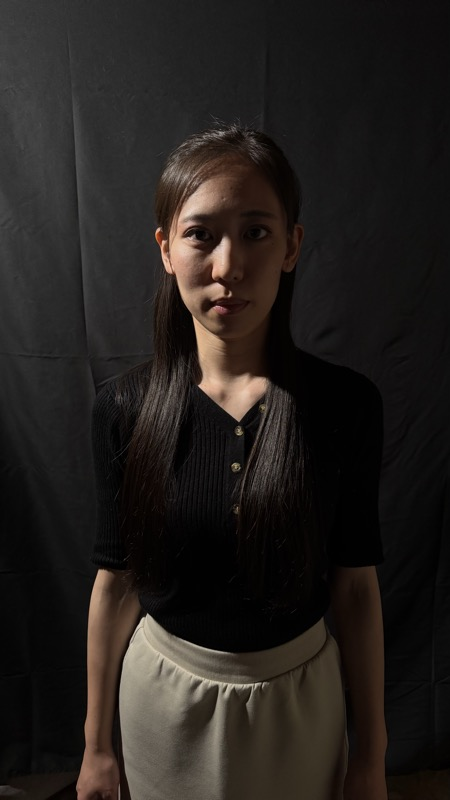
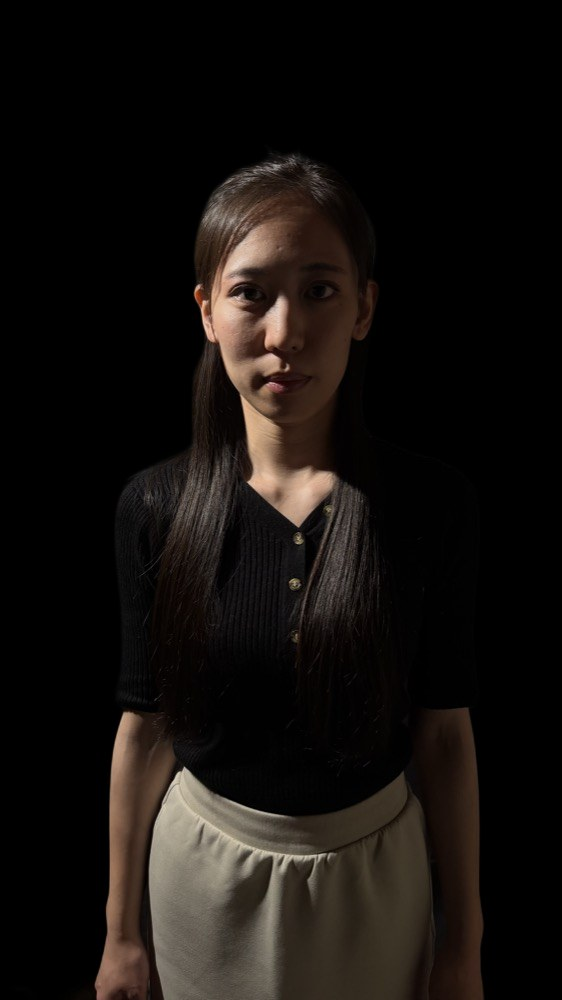
itabashi-v3: 強み下バナーを切り抜き黒バック4名に・社長(0187)を40%幅で目立たせ

diff --git a/itabashi-v3.html b/itabashi-v3.html
@@ -109,7 +109,7 @@
   </div>
   <div class="reel-audio"><span class="reel-note">&#9834;</span><span class="reel-track">オリジナル音源 &middot; 第弐ヴォヌール</span></div>
   <div class="reel-bar"><span></span></div>
-</div></div><div class="mt-10 grid grid-cols-1 md:grid-cols-2 gap-4 max-w-2xl mx-auto"><div class="bg-white/70 backdrop-blur-sm rounded-2xl p-5 border border-[#E8B84B]/30 flex flex-col items-center text-center gap-3 shadow-sm"><div><p class="text-xs font-bold text-[#2A2520] mb-1">SNS運用・クラウドファンディングを<br>相談したい事業者様</p><p class="text-xs text-[#5A5550] leading-relaxed">まずはお気軽に無料相談してみる</p></div><a href="#contact"><span class="inline-flex items-center gap-2 bg-[#E8B84B] hover:bg-[#d4a63a] text-white font-bold px-6 py-2.5 rounded-full shadow-md transition-all duration-200 hover:shadow-lg text-xs w-full justify-center cursor-pointer"><svg viewBox="0 0 24 24" class="w-4 h-4 fill-white"><path d="M19 3H5c-1.1 0-2 .9-2 2v14c0 1.1.9 2 2 2h14c1.1 0 2-.9 2-2V5c0-1.1-.9-2-2-2zm-5 14H7v-2h7v2zm3-4H7v-2h10v2zm0-4H7V7h10v2z"></path></svg>無料相談する</span></a></div><div class="bg-white/70 backdrop-blur-sm rounded-2xl p-5 border border-[#89C4D4]/40 flex flex-col items-center text-center gap-3 shadow-sm"><div><p class="text-xs font-bold text-[#2A2520] mb-1">サービス内容をもっと知りたい方へ</p><p class="text-xs text-[#5A5550] leading-relaxed">実績・料金・サービス詳細をチェックする</p></div><a href="#service" class="inline-flex items-center gap-2 bg-[#89C4D4] hover:bg-[#7bbeca] text-white font-bold px-6 py-2.5 rounded-full shadow-md transition-all duration-200 hover:shadow-lg text-xs w-full justify-center"><svg viewBox="0 0 24 24" class="w-4 h-4 fill-white"><path d="M11.99 2C6.47 2 2 6.48 2 12s4.47 10 9.99 10C17.52 22 22 17.52 22 12S17.52 2 11.99 2zm4.24 16L12 15.45 7.77 18l1.12-4.81-3.73-3.23 4.92-.42L12 5l1.92 4.53 4.92.42-3.73 3.23L16.23 18z"></path></svg>サービスを見る</a></div></div></div></div></div></div></div></div></section><section id="service" class="py-12 md:py-20 bg-[#F4F0E8]"><div class="container"><div class="fade-in-up mb-8 md:mb-12"><div class="sec-label-c mb-3">SERVICE &amp; PRICE</div><h2 class="editorial-heading text-3xl md:text-4xl font-bold text-[#2A2520] mb-4">必要な施策を、必要な分だけ。</h2><p class="text-[#5A5550] text-sm leading-relaxed max-w-xl">目的やご予算に応じて柔軟に対応いたします。<br><strong class="text-[#E07A5F]">まずはお気軽にご相談ください。</strong><br>詳細はお打ち合わせの上、<br>最適なご提案をさせていただきます。</p></div><div class="fade-in-up mb-10"><div class="bg-white rounded-2xl border border-[#E8E4DC] overflow-hidden shadow-sm"><div class="bg-[#2A2520] px-6 py-4"><h3 class="text-white font-['Shippori_Mincho'] font-bold text-lg">料金の目安</h3><p class="text-white/50 text-xs mt-0.5">目的やご予算に合わせて柔軟にご相談ください。</p></div><div class="overflow-x-auto"><table class="w-full text-sm"><thead><tr class="border-b border-[#E8E4DC]"><th class="text-left px-5 py-3 text-xs font-semibold text-[#5A5550] w-1/3">サービス</th><th class="px-5 py-3 text-center"><span class="text-xs text-[#5A5550]">一般的な相場</span></th><th class="px-5 py-3 text-center bg-[#E8B84B]/8"><span class="text-xs font-bold text-[#C2A56D]">第弐ヴォヌール</span></th></tr></thead><tbody><tr class="border-b border-[#E8E4DC] last:border-0"><td class="px-5 py-3.5 text-xs font-medium text-[#2A2520]">運用代行（月額）</td><td class="px-5 py-3.5 text-center"><span class="text-xs text-[#5A5550]">月30万円〜</span></td><td class="px-5 py-3.5 text-center bg-[#E8B84B]/5"><span class="text-sm font-bold" style="color:#df846e">7万円〜</span></td></tr><tr class="border-b border-[#E8E4DC] last:border-0"><td class="px-5 py-3.5 text-xs font-medium text-[#2A2520]">アカウントコンサル</td><td class="px-5 py-3.5 text-center"><span class="text-xs text-[#5A5550]">月10〜30万円〜</span></td><td class="px-5 py-3.5 text-center bg-[#E8B84B]/5"><span class="text-sm font-bold" style="color:#df846e">4万円〜</span></td></tr><tr class="border-b border-[#E8E4DC] last:border-0"><td class="px-5 py-3.5 text-xs font-medium text-[#2A2520]">リール制作（企画・台本・編集）</td><td class="px-5 py-3.5 text-center"><span class="text-xs text-[#5A5550]">3〜10万円〜</span></td><td class="px-5 py-3.5 text-center bg-[#E8B84B]/5"><span class="text-sm font-bold" style="color:#df846e">2万円〜/本</span></td></tr><tr class="border-b border-[#E8E4DC] last:border-0"><td class="px-5 py-3.5 text-xs font-medium text-[#2A2520]">アカウント設計</td><td class="px-5 py-3.5 text-center"><span class="text-xs text-[#5A5550]">月10〜30万円〜</span></td><td class="px-5 py-3.5 text-center bg-[#E8B84B]/5"><span class="text-sm font-bold" style="color:#df846e">3万円〜</span></td></tr><tr class="border-b border-[#E8E4DC] last:border-0"><td class="px-5 py-3.5 text-xs font-medium text-[#2A2520]">分析・改善サポート</td><td class="px-5 py-3.5 text-center"><span class="text-xs text-[#5A5550]">月5〜15万円〜</span></td><td class="px-5 py-3.5 text-center bg-[#E8B84B]/5"><span class="text-sm font-bold" style="color:#df846e">2万円〜</span></td></tr></tbody></table></div><div class="px-5 py-3 bg-[#E8B84B]/10 border-t border-[#E8B84B]/20"><p class="text-sm text-[#5A5550]">※ 料金はご依頼内容・ボリュームにより変わります。まずはお気軽にご相談ください。</p></div></div></div></div></div></section><section id="strength" class="py-12 md:py-20"><div class="container"><div class="fade-in-up mb-8 md:mb-12"><div class="sec-label-c mb-3">STRENGTH</div><h2 class="editorial-heading text-3xl md:text-4xl font-bold text-[#2A2520] mb-4">なぜ、売上まで変えられるのか。</h2><p class="text-[#5A5550] text-sm leading-relaxed max-w-xl">SNS・動画・販売導線を一気通貫で担うチーム。<br>プロクオリティの映像と戦略設計で、クライアントの売上に直結します。</p></div><div class="grid md:grid-cols-3 gap-6"><div class="fade-in-up "><div class="str-card" style="--bg:url('images/strength_1.jpg')"><div class="str-photo" style="background-image:url('images/strength_1.jpg');background-position:100% 28%;background-size:135%"></div><h3 class="editorial-heading font-bold text-base text-[#2A2520] mb-3">「点」ではなく「線」でつなぐストーリー設計</h3><p class="text-sm text-[#5A5550] leading-relaxed">InstagramやTikTokから始まり、広告運用、公式LINE、クラウドファンディングまでのロードマップを作成し、御社の商品（サービス）が売れるストーリーを設計します。認知から購買までを一本の線でつなぐ、盤石な仕組みを構築できるのが私たちの強みです。</p></div></div><div class="fade-in-up "><div class="str-card" style="--bg:url('images/strength_1.jpg')"><div class="str-photo" style="background-image:url('images/strength_1.jpg');background-position:50% 28%;background-size:135%"></div><h3 class="editorial-heading font-bold text-base text-[#2A2520] mb-3">心を動かす映像で、「ファン」をつくる</h3><p class="text-sm text-[#5A5550] leading-relaxed">CM撮影の現場で培った技術力。照明・構図・編集まで、人の心を動かす映像を自社で撮影・制作できます。その実力は、自社アカウントの初回投稿で<strong class="text-[#E07A5F]">20万インプレッション</strong>を達成した実績が証明しています。</p></div></div><div class="fade-in-up "><div class="str-card" style="--bg:url('images/strength_1.jpg')"><div class="str-photo" style="background-image:url('images/strength_1.jpg');background-position:0% 28%;background-size:135%"></div><h3 class="editorial-heading font-bold text-base text-[#2A2520] mb-3">完全自社完結の一気通貫型</h3><p class="text-sm text-[#5A5550] leading-relaxed">SNS運用、広告運用、公式LINE構築、クラウドファンディング運営支援まで、すべての工程を完全自社内で完結させます。下請け業者を挟まないため、連絡のタイムラグや複雑なやり取りは一切ありません。</p></div></div></div><div class="fade-in-up mt-10"><div class="relative rounded-2xl overflow-hidden h-56 md:h-72"><div style="display:flex;width:100%;height:100%"><img src="images/team_1.jpg" style="width:25%;height:100%;object-fit:cover;object-position:center 18%" alt="株式会社第弐ヴォヌール メンバー"><img src="images/team_2.jpg" style="width:25%;height:100%;object-fit:cover;object-position:center 18%" alt="株式会社第弐ヴォヌール メンバー"><img src="images/team_3.jpg" style="width:25%;height:100%;object-fit:cover;object-position:center 18%" alt="株式会社第弐ヴォヌール メンバー"><img src="images/team_4.jpg" style="width:25%;height:100%;object-fit:cover;object-position:center 18%" alt="株式会社第弐ヴォヌール メンバー"></div><div class="absolute inset-0 bg-gradient-to-r from-[#2A2520]/50 to-transparent"></div><div class="absolute left-6 top-1/2 -translate-y-1/2 max-w-xs"><p class="text-white/80 text-xs mb-1">第弐ヴォヌール @daini_vonheur</p><p class="text-white font-['Shippori_Mincho'] text-xl font-bold leading-snug">フォロワーを、<br>ファンに、売上に。</p></div></div></div></div></section><section id="subsidy" class="py-12 md:py-20 bg-[#F4F0E8]"><div class="container">
+</div></div><div class="mt-10 grid grid-cols-1 md:grid-cols-2 gap-4 max-w-2xl mx-auto"><div class="bg-white/70 backdrop-blur-sm rounded-2xl p-5 border border-[#E8B84B]/30 flex flex-col items-center text-center gap-3 shadow-sm"><div><p class="text-xs font-bold text-[#2A2520] mb-1">SNS運用・クラウドファンディングを<br>相談したい事業者様</p><p class="text-xs text-[#5A5550] leading-relaxed">まずはお気軽に無料相談してみる</p></div><a href="#contact"><span class="inline-flex items-center gap-2 bg-[#E8B84B] hover:bg-[#d4a63a] text-white font-bold px-6 py-2.5 rounded-full shadow-md transition-all duration-200 hover:shadow-lg text-xs w-full justify-center cursor-pointer"><svg viewBox="0 0 24 24" class="w-4 h-4 fill-white"><path d="M19 3H5c-1.1 0-2 .9-2 2v14c0 1.1.9 2 2 2h14c1.1 0 2-.9 2-2V5c0-1.1-.9-2-2-2zm-5 14H7v-2h7v2zm3-4H7v-2h10v2zm0-4H7V7h10v2z"></path></svg>無料相談する</span></a></div><div class="bg-white/70 backdrop-blur-sm rounded-2xl p-5 border border-[#89C4D4]/40 flex flex-col items-center text-center gap-3 shadow-sm"><div><p class="text-xs font-bold text-[#2A2520] mb-1">サービス内容をもっと知りたい方へ</p><p class="text-xs text-[#5A5550] leading-relaxed">実績・料金・サービス詳細をチェックする</p></div><a href="#service" class="inline-flex items-center gap-2 bg-[#89C4D4] hover:bg-[#7bbeca] text-white font-bold px-6 py-2.5 rounded-full shadow-md transition-all duration-200 hover:shadow-lg text-xs w-full justify-center"><svg viewBox="0 0 24 24" class="w-4 h-4 fill-white"><path d="M11.99 2C6.47 2 2 6.48 2 12s4.47 10 9.99 10C17.52 22 22 17.52 22 12S17.52 2 11.99 2zm4.24 16L12 15.45 7.77 18l1.12-4.81-3.73-3.23 4.92-.42L12 5l1.92 4.53 4.92.42-3.73 3.23L16.23 18z"></path></svg>サービスを見る</a></div></div></div></div></div></div></div></div></section><section id="service" class="py-12 md:py-20 bg-[#F4F0E8]"><div class="container"><div class="fade-in-up mb-8 md:mb-12"><div class="sec-label-c mb-3">SERVICE &amp; PRICE</div><h2 class="editorial-heading text-3xl md:text-4xl font-bold text-[#2A2520] mb-4">必要な施策を、必要な分だけ。</h2><p class="text-[#5A5550] text-sm leading-relaxed max-w-xl">目的やご予算に応じて柔軟に対応いたします。<br><strong class="text-[#E07A5F]">まずはお気軽にご相談ください。</strong><br>詳細はお打ち合わせの上、<br>最適なご提案をさせていただきます。</p></div><div class="fade-in-up mb-10"><div class="bg-white rounded-2xl border border-[#E8E4DC] overflow-hidden shadow-sm"><div class="bg-[#2A2520] px-6 py-4"><h3 class="text-white font-['Shippori_Mincho'] font-bold text-lg">料金の目安</h3><p class="text-white/50 text-xs mt-0.5">目的やご予算に合わせて柔軟にご相談ください。</p></div><div class="overflow-x-auto"><table class="w-full text-sm"><thead><tr class="border-b border-[#E8E4DC]"><th class="text-left px-5 py-3 text-xs font-semibold text-[#5A5550] w-1/3">サービス</th><th class="px-5 py-3 text-center"><span class="text-xs text-[#5A5550]">一般的な相場</span></th><th class="px-5 py-3 text-center bg-[#E8B84B]/8"><span class="text-xs font-bold text-[#C2A56D]">第弐ヴォヌール</span></th></tr></thead><tbody><tr class="border-b border-[#E8E4DC] last:border-0"><td class="px-5 py-3.5 text-xs font-medium text-[#2A2520]">運用代行（月額）</td><td class="px-5 py-3.5 text-center"><span class="text-xs text-[#5A5550]">月30万円〜</span></td><td class="px-5 py-3.5 text-center bg-[#E8B84B]/5"><span class="text-sm font-bold" style="color:#df846e">7万円〜</span></td></tr><tr class="border-b border-[#E8E4DC] last:border-0"><td class="px-5 py-3.5 text-xs font-medium text-[#2A2520]">アカウントコンサル</td><td class="px-5 py-3.5 text-center"><span class="text-xs text-[#5A5550]">月10〜30万円〜</span></td><td class="px-5 py-3.5 text-center bg-[#E8B84B]/5"><span class="text-sm font-bold" style="color:#df846e">4万円〜</span></td></tr><tr class="border-b border-[#E8E4DC] last:border-0"><td class="px-5 py-3.5 text-xs font-medium text-[#2A2520]">リール制作（企画・台本・編集）</td><td class="px-5 py-3.5 text-center"><span class="text-xs text-[#5A5550]">3〜10万円〜</span></td><td class="px-5 py-3.5 text-center bg-[#E8B84B]/5"><span class="text-sm font-bold" style="color:#df846e">2万円〜/本</span></td></tr><tr class="border-b border-[#E8E4DC] last:border-0"><td class="px-5 py-3.5 text-xs font-medium text-[#2A2520]">アカウント設計</td><td class="px-5 py-3.5 text-center"><span class="text-xs text-[#5A5550]">月10〜30万円〜</span></td><td class="px-5 py-3.5 text-center bg-[#E8B84B]/5"><span class="text-sm font-bold" style="color:#df846e">3万円〜</span></td></tr><tr class="border-b border-[#E8E4DC] last:border-0"><td class="px-5 py-3.5 text-xs font-medium text-[#2A2520]">分析・改善サポート</td><td class="px-5 py-3.5 text-center"><span class="text-xs text-[#5A5550]">月5〜15万円〜</span></td><td class="px-5 py-3.5 text-center bg-[#E8B84B]/5"><span class="text-sm font-bold" style="color:#df846e">2万円〜</span></td></tr></tbody></table></div><div class="px-5 py-3 bg-[#E8B84B]/10 border-t border-[#E8B84B]/20"><p class="text-sm text-[#5A5550]">※ 料金はご依頼内容・ボリュームにより変わります。まずはお気軽にご相談ください。</p></div></div></div></div></div></section><section id="strength" class="py-12 md:py-20"><div class="container"><div class="fade-in-up mb-8 md:mb-12"><div class="sec-label-c mb-3">STRENGTH</div><h2 class="editorial-heading text-3xl md:text-4xl font-bold text-[#2A2520] mb-4">なぜ、売上まで変えられるのか。</h2><p class="text-[#5A5550] text-sm leading-relaxed max-w-xl">SNS・動画・販売導線を一気通貫で担うチーム。<br>プロクオリティの映像と戦略設計で、クライアントの売上に直結します。</p></div><div class="grid md:grid-cols-3 gap-6"><div class="fade-in-up "><div class="str-card" style="--bg:url('images/strength_1.jpg')"><div class="str-photo" style="background-image:url('images/strength_1.jpg');background-position:100% 28%;background-size:135%"></div><h3 class="editorial-heading font-bold text-base text-[#2A2520] mb-3">「点」ではなく「線」でつなぐストーリー設計</h3><p class="text-sm text-[#5A5550] leading-relaxed">InstagramやTikTokから始まり、広告運用、公式LINE、クラウドファンディングまでのロードマップを作成し、御社の商品（サービス）が売れるストーリーを設計します。認知から購買までを一本の線でつなぐ、盤石な仕組みを構築できるのが私たちの強みです。</p></div></div><div class="fade-in-up "><div class="str-card" style="--bg:url('images/strength_1.jpg')"><div class="str-photo" style="background-image:url('images/strength_1.jpg');background-position:50% 28%;background-size:135%"></div><h3 class="editorial-heading font-bold text-base text-[#2A2520] mb-3">心を動かす映像で、「ファン」をつくる</h3><p class="text-sm text-[#5A5550] leading-relaxed">CM撮影の現場で培った技術力。照明・構図・編集まで、人の心を動かす映像を自社で撮影・制作できます。その実力は、自社アカウントの初回投稿で<strong class="text-[#E07A5F]">20万インプレッション</strong>を達成した実績が証明しています。</p></div></div><div class="fade-in-up "><div class="str-card" style="--bg:url('images/strength_1.jpg')"><div class="str-photo" style="background-image:url('images/strength_1.jpg');background-position:0% 28%;background-size:135%"></div><h3 class="editorial-heading font-bold text-base text-[#2A2520] mb-3">完全自社完結の一気通貫型</h3><p class="text-sm text-[#5A5550] leading-relaxed">SNS運用、広告運用、公式LINE構築、クラウドファンディング運営支援まで、すべての工程を完全自社内で完結させます。下請け業者を挟まないため、連絡のタイムラグや複雑なやり取りは一切ありません。</p></div></div></div><div class="fade-in-up mt-10"><div class="relative rounded-2xl overflow-hidden h-56 md:h-72"><div style="display:flex;width:100%;height:100%"><img src="images/team_1.jpg" style="width:18%;height:100%;object-fit:cover;object-position:center 18%" alt="株式会社第弐ヴォヌール メンバー"><img src="images/team_2.jpg" style="width:20%;height:100%;object-fit:cover;object-position:center 18%" alt="株式会社第弐ヴォヌール メンバー"><img src="images/team_3.jpg" style="width:40%;height:100%;object-fit:cover;object-position:center 18%" alt="株式会社第弐ヴォヌール メンバー"><img src="images/team_4.jpg" style="width:22%;height:100%;object-fit:cover;object-position:center 18%" alt="株式会社第弐ヴォヌール メンバー"></div><div class="absolute inset-0 bg-gradient-to-r from-[#2A2520]/50 to-transparent"></div><div class="absolute left-6 top-1/2 -translate-y-1/2 max-w-xs"><p class="text-white/80 text-xs mb-1">第弐ヴォヌール @daini_vonheur</p><p class="text-white font-['Shippori_Mincho'] text-xl font-bold leading-snug">フォロワーを、<br>ファンに、売上に。</p></div></div></div></div></section><section id="subsidy" class="py-12 md:py-20 bg-[#F4F0E8]"><div class="container">
 
   <div class="fade-in-up mb-8 md:mb-12">
     <div class="sec-label-c mb-3">SUBSIDY</div>
